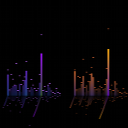
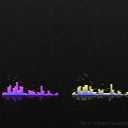
update in progress

diff --git a/modizer/MISC/RenderUtils.mm b/modizer/MISC/RenderUtils.mm
@@ -1471,7 +1471,7 @@ void RenderUtils::DrawSpectrum3DBar(short int *spectrumDataL,short int *spectrum
         //glRotatef(180,0,0,1);
         glTranslatef(8,0,0);
         
-        glRotatef(3*360.0f*(0.5f*sin((float)frameCpt*3.14159f/761)-
+        glRotatef(-3*360.0f*(0.5f*sin((float)frameCpt*3.14159f/761)-
                             0.7f*sin((float)frameCpt*3.14159f/1211)-
                             0.9f*sin((float)frameCpt*3.14159f/2213)), 0, 1, 0);
         
@@ -3022,7 +3022,7 @@ void RenderUtils::DrawPiano3DWithNotesWall(int *data,uint ww,uint hh,int fx_len,
     }
     
     if (camera_pos_countdown==0) {
-        camera_pos=arc4random()%3;
+        camera_pos=arc4random()%5;
         camera_pos_countdown=30*20+(arc4random()&511);//15s min before switching
     } else camera_pos_countdown--;
     
@@ -3052,7 +3052,7 @@ void RenderUtils::DrawPiano3DWithNotesWall(int *data,uint ww,uint hh,int fx_len,
         switch (camera_pos) {
             case 1:
             case 2:
-                ztrans_tgt=-z-25;
+                ztrans_tgt=-z-40;
                 break;
         }
         
@@ -3081,14 +3081,12 @@ void RenderUtils::DrawPiano3DWithNotesWall(int *data,uint ww,uint hh,int fx_len,
         if (abs(xtrans-xtrans_tgt)<0.1) {
             xtransSpeed_tgt=0;
         }
-        glTranslatef(-xtrans+1*(0.9f*sin((float)piano_fxcpt*3.14159f/319)+
-                                0.5f*sin((float)piano_fxcpt*3.14159f/789)-
-                                0.7f*sin((float)piano_fxcpt*3.14159f/1061)), 0.0, ztrans-5*(1.2f*cos((float)piano_fxcpt*3.14159f/719)+
-                                                                                            0.5f*sin((float)piano_fxcpt*3.14159f/289)-
-                                                                                            0.7f*sin((float)piano_fxcpt*3.14159f/361)));
         
-        float roty_adj,rotx_adj;
         
+        float roty_adj,rotx_adj,xrandfact,rotx_randfact,roty_randfact;
+        xrandfact=1.0;
+        rotx_randfact=8.0f;
+        roty_randfact=5.0f;
         switch (camera_pos) {
             case 0:
                 rotx_adj=30;
@@ -3102,12 +3100,37 @@ void RenderUtils::DrawPiano3DWithNotesWall(int *data,uint ww,uint hh,int fx_len,
                 rotx_adj=30;
                 roty_adj=-45;
                 break;
+            case 3:
+                rotx_adj=20;
+                roty_adj=75;
+                xtrans=0;
+                xrandfact=0.2f;
+                rotx_randfact=3.0f;
+                roty_randfact=2.0f;
+                break;
+            case 4:
+                rotx_adj=20;
+                roty_adj=-75;
+                xtrans=0;
+                xrandfact=0.2f;
+                rotx_randfact=3.0f;
+                roty_randfact=2.0f;
+                break;
         }
         
-        glRotatef(rotx_adj+8.0f*(0.4f*sin((float)piano_fxcpt*3.14159f/91)+
+        glTranslatef(-xtrans+xrandfact*(0.9f*sin((float)piano_fxcpt*3.14159f/319)+
+                                0.5f*sin((float)piano_fxcpt*3.14159f/789)-
+                                0.7f*sin((float)piano_fxcpt*3.14159f/1061)),
+                     2.0,
+                     ztrans-5*(1.2f*cos((float)piano_fxcpt*3.14159f/719)+
+                               0.5f*sin((float)piano_fxcpt*3.14159f/289)-
+                               0.7f*sin((float)piano_fxcpt*3.14159f/361)));
+        
+        
+        glRotatef(rotx_adj+rotx_randfact*(0.4f*sin((float)piano_fxcpt*3.14159f/91)+
                                  0.7f*sin((float)piano_fxcpt*3.14159f/911)+
                                  0.3f*sin((float)piano_fxcpt*3.14159f/409)), 1, 0, 0);
-        glRotatef(roty_adj+5.0f*(0.8f*sin((float)piano_fxcpt*3.14159f/173)+
+        glRotatef(roty_adj+roty_randfact*(0.8f*sin((float)piano_fxcpt*3.14159f/173)+
                                  0.5f*sin((float)piano_fxcpt*3.14159f/1029)+
                                  0.3f*sin((float)piano_fxcpt*3.14159f/511)), 0, 1, 0);
         

diff --git a/modizer/Classes/SettingsGenViewController.mm b/modizer/Classes/SettingsGenViewController.mm
@@ -7,6 +7,7 @@
 //
 
 extern BOOL is_ios7;
+extern volatile int mSlowDevice;
 
 #import "SettingsGenViewController.h"
 #import "MNEValueTrackingSlider.h"
@@ -267,8 +268,11 @@ void optUADEChangedC(id param) {
     settings[GLOB_FX3].detail.mdz_switch.switch_value=0;
     settings[GLOB_FX4].detail.mdz_boolswitch.switch_value=0;
     settings[GLOB_FX5].detail.mdz_switch.switch_value=0;
-    settings[GLOB_FXLOD].detail.mdz_switch.switch_value=2;
-    settings[GLOB_FXMSAA].detail.mdz_switch.switch_value=1;
+    
+    if (mSlowDevice) settings[GLOB_FXLOD].detail.mdz_switch.switch_value=1;
+    else settings[GLOB_FXLOD].detail.mdz_switch.switch_value=2;
+    
+    settings[GLOB_FXMSAA].detail.mdz_switch.switch_value=0;
     
     /////////////////////////////////////
     //PLUGINS

diff --git a/modizer/Classes/DetailViewControllerIphone.mm b/modizer/Classes/DetailViewControllerIphone.mm
@@ -3648,7 +3648,7 @@ void fxRadial(int fxtype,int _ww,int _hh,short int *spectrumDataL,short int *spe
     txtSubMenuHandle[14]=0;
     txtSubMenuHandle[15]=txtMenuHandle[6];//TextureUtils::Create([UIImage imageNamed:@"txtMenu7a.png"]);
     txtSubMenuHandle[16]=TextureUtils::Create([UIImage imageNamed:@"txtMenu7b.png"]);
-    txtSubMenuHandle[17]=TextureUtils::Create([UIImage imageNamed:@"txtMenu7b.png"]);//TODO: create 7c
+    txtSubMenuHandle[17]=TextureUtils::Create([UIImage imageNamed:@"txtMenu7c.png"]);
     
     
     txtSubMenuHandle[18]=0;
